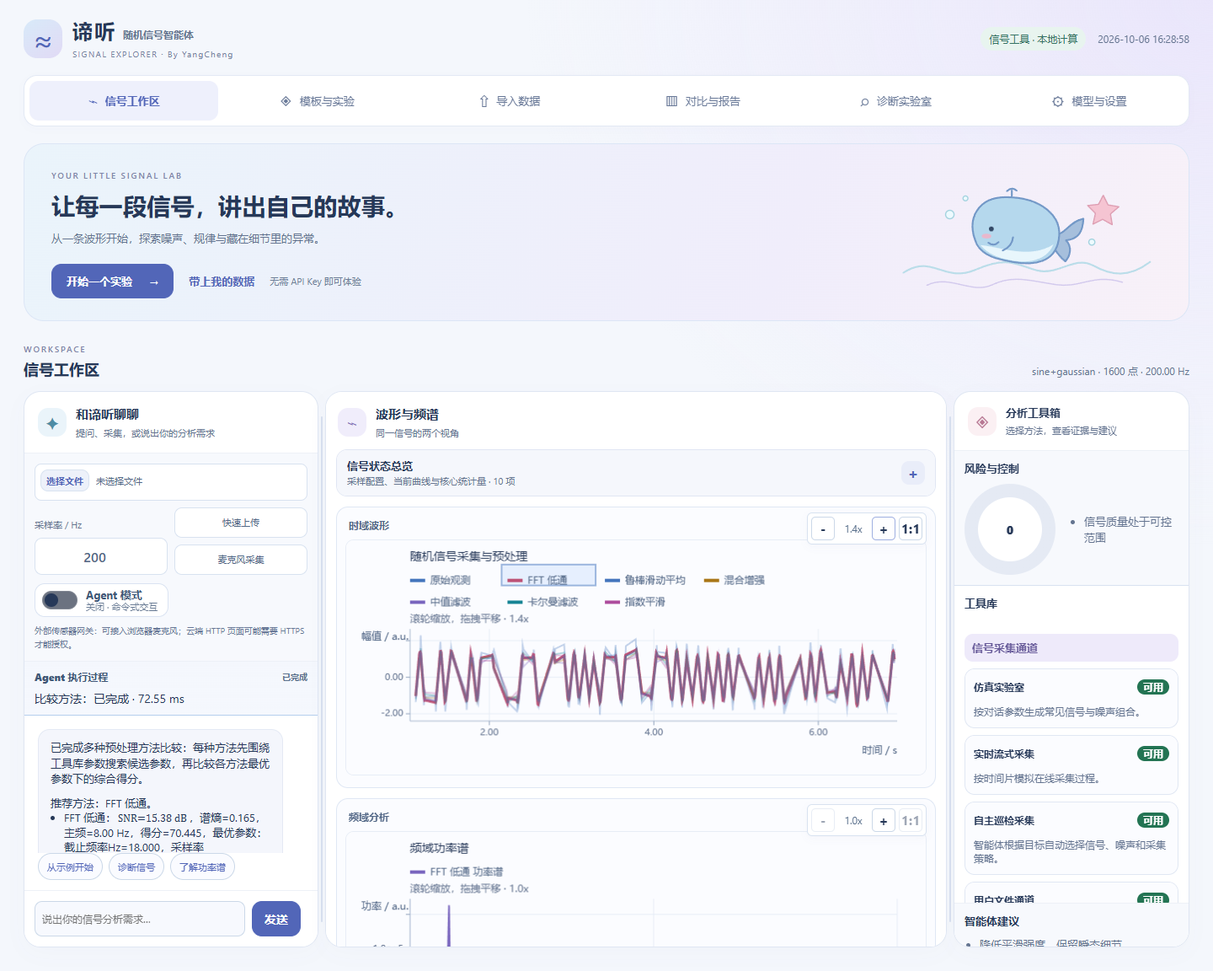
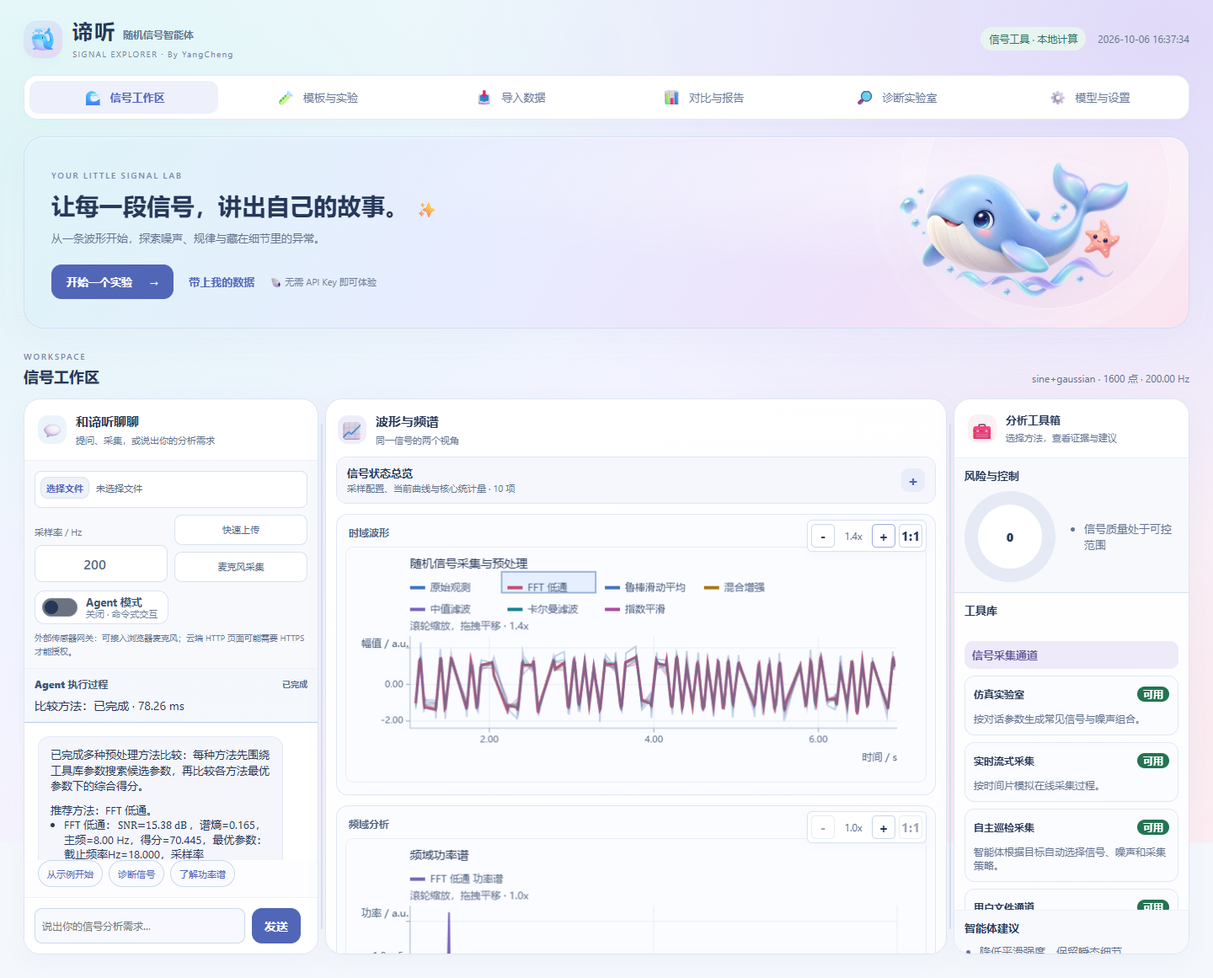
升级海洋视觉素材：AI立体鲸鱼、丰富渐变背景与装饰表情

diff --git a/工程文件/代码/web/ocean.css b/工程文件/代码/web/ocean.css
@@ -12,7 +12,15 @@
   --chart-surface: #fbfcff;
   --field-surface: #fff;
 }
-body { background: radial-gradient(ellipse at 100% 0, #eae6fb, transparent 40%), var(--bg); font-family: "Segoe UI", "Microsoft YaHei UI", sans-serif; font-size: 14px; }
+body {
+  background:
+    radial-gradient(ellipse at 2% 18%, #cdeff080, transparent 42%),
+    radial-gradient(ellipse at 96% 4%, #d9cff6b3, transparent 45%),
+    radial-gradient(ellipse at 90% 85%, #f6dce580, transparent 40%),
+    linear-gradient(155deg, #f0fbfc 0%, #f2f3ff 48%, #fff5f8 100%);
+  background-attachment: fixed;
+  font-family: "Segoe UI", "Microsoft YaHei UI", sans-serif; font-size: 14px;
+}
 [hidden] { display: none !important; }
 a { color: #5266b8; }
 button, a, summary, input, select { -webkit-tap-highlight-color: transparent; }
@@ -28,7 +36,7 @@ input, select { font: inherit; accent-color: #5266b8; }
 .skip-link:focus { top: 12px; }
 .app-header { max-width: 1680px; margin: auto; padding: 20px 28px 14px; min-height: 78px; background: none; color: var(--ink); overflow: visible; }
 .brand { display: flex; align-items: center; gap: 12px; text-decoration: none; color: var(--ink); }
-.brand-icon { display: grid; place-items: center; width: 46px; height: 46px; border-radius: 16px; background: linear-gradient(145deg, #d8eaf9, #e1daf5); color: #5266b8; font-size: 36px; line-height: 1; }
+.brand-icon { display: grid; place-items: center; width: 46px; height: 46px; border-radius: 16px; background: linear-gradient(145deg, #d5edf6, #e4d8f5); color: #5266b8; font-size: 27px; line-height: 1; box-shadow: inset 0 1px 0 #ffffffbf, 0 4px 12px #6876ad0a; }
 h1 { font-size: 24px; letter-spacing: 2px; text-shadow: none; }
 .title-suffix { color: var(--muted); font-size: 12px; text-shadow: none; letter-spacing: 0; }
 .sub { color: #73839e; font-size: 10px; letter-spacing: 1.3px; text-shadow: none; margin-top: 5px; }
@@ -38,23 +46,27 @@ h1 { font-size: 24px; letter-spacing: 2px; text-shadow: none; }
 .workflow-nav { position: sticky; top: 8px; z-index: 20; max-width: 1624px; margin: 4px auto 20px; padding: 6px; gap: 5px; border-radius: 16px; background: #fff; border: 1px solid #e3e9f4; box-shadow: 0 3px 12px #41578504; }
 .workflow-nav a { display: flex; align-items: center; justify-content: center; gap: 9px; border: 0; border-radius: 11px; color: #697998; padding: 11px 16px; flex: 1; font-size: 18px; white-space: nowrap; }
 .workflow-nav a span { font-size: 13px; color: inherit; }
+.workflow-nav .nav-emoji { font-size: 17px; flex: none; line-height: 1; }
 .workflow-nav a:hover { background: #f2f5fc; }
 .workflow-nav a[aria-current="page"] { background: #eef0fc; color: #5266b8; font-weight: 650; }
 [data-view] { max-width: 1680px; margin: auto; padding: 0 28px 28px; }
 .eyebrow { color: #7d87aa; font-size: 10px; font-weight: 600; letter-spacing: 1.8px; }
-.ocean-hero { position: relative; display: flex; justify-content: space-between; align-items: center; min-height: 170px; border: 1px solid #dce6f6; border-radius: 24px; padding: 26px 32px; background: linear-gradient(110deg, #eaf4fb, #f0edfb 65%, #f8f1f8); overflow: hidden; }
+.ocean-hero { position: relative; isolation: isolate; display: flex; justify-content: space-between; align-items: center; min-height: 210px; border: 1px solid #d3def3; border-radius: 24px; padding: 26px 32px; background: radial-gradient(ellipse at 80% 20%, #ffffff8c, transparent 45%), linear-gradient(115deg, #dff4f8 0%, #e7edff 38%, #eee2fa 72%, #fbe4ee 100%); box-shadow: inset 0 1px 0 #ffffffbf, 0 12px 35px #7885b00a; overflow: hidden; }
+.ocean-hero::before { content: ""; position: absolute; width: 290px; height: 290px; border: 1px solid #ffffff80; border-radius: 50%; right: 22px; top: -88px; z-index: -1; box-shadow: 0 0 0 30px #ffffff26, 0 0 0 65px #ffffff14; pointer-events: none; }
+.ocean-hero > div { position: relative; z-index: 1; }
+.hero-spark { display: inline-block; margin-left: 8px; font-size: .7em; vertical-align: middle; }
 .ocean-hero h2 { margin: 9px 0 10px; font-size: clamp(20px, 2vw, 28px); font-weight: 650; letter-spacing: .3px; }
 .ocean-hero p { color: var(--muted); margin: 0; font-size: 13px; line-height: 1.7; }
 .hero-actions { display: flex; align-items: center; gap: 18px; margin-top: 19px; font-size: 13px; }
 .hero-actions a { text-decoration: none; font-weight: 600; }
 .ocean-primary { display: inline-flex; gap: 20px; align-items: center; padding: 11px 17px; }
 .hero-note { font-size: 11px; color: #6c7d97; }
-.ocean-mascot { width: 300px; height: auto; margin: -5px 10px -10px 24px; flex-shrink: 0; }
+.ocean-mascot { width: 370px; height: 210px; object-fit: contain; margin: -18px -5px -18px 24px; flex-shrink: 0; filter: drop-shadow(0 12px 18px #7085bd12); }
 .workspace-caption { display: flex; justify-content: space-between; align-items: end; gap: 20px; margin: 22px 0 14px; }
 .workspace-caption h2 { font-size: 18px; margin: 4px 0 0; font-weight: 650; }
 #dataSummary { flex: 0 1 auto; color: var(--muted); font-size: 12px; padding-bottom: 2px; text-align: right; }
 main { --left-width: 350px; --right-width: 280px; max-width: none; margin: 0; padding: 0; background: none; height: max(660px, calc(100vh - 340px)); }
-.panel { background: #fff; border: 1px solid #dfe6f2; border-radius: 20px; box-shadow: 0 7px 25px #41578506; backdrop-filter: none; }
+.panel { background: linear-gradient(160deg, #fff, #fdfdff); border: 1px solid #dfe6f2; border-radius: 20px; box-shadow: 0 7px 25px #41578509; backdrop-filter: none; }
 .splitter::before { background: #d6deee; top: 30px; bottom: 30px; }
 .panel-heading { display: flex; align-items: center; gap: 11px; padding: 16px; flex-shrink: 0; }
 .panel-heading h2 { font-size: 15px; margin: 0; font-weight: 650; }
@@ -133,7 +145,7 @@ canvas { border-color: #e7edf6; border-radius: 10px; }
   main { grid-template-columns: minmax(280px, .8fr) minmax(0, 1.2fr); height: auto; gap: 16px; }
   .chat { height: 760px; min-height: 0; }.workspace { height: 760px; min-height: 0; }
   .side { grid-column: 1/-1; max-height: 620px; min-height: 0; }
-  .ocean-mascot { width: 230px; }
+  .ocean-mascot { width: 270px; height: 190px; margin-left: 12px; }
   .workflow-nav a { padding: 10px; flex: 1 0 auto; }
 }
 @media(max-width: 720px) {
@@ -143,9 +155,9 @@ canvas { border-color: #e7edf6; border-radius: 10px; }
   .workflow-nav { margin: 0 16px 16px; display: grid; grid-template-columns: repeat(3, minmax(0, 1fr)); gap: 3px; }
   .workflow-nav a { font-size: 16px; padding: 10px 3px; gap: 6px; }.workflow-nav a span { font-size: 11px; }
   [data-view] { padding: 0 16px 20px; }
-  .ocean-hero { padding: 22px; display: block; }.ocean-hero h2 { max-width: 250px; line-height: 1.5; font-size: 22px; }
-  .ocean-hero p { max-width: 240px; font-size: 12px; }
-  .ocean-mascot { position: absolute; width: 140px; right: -28px; top: 9px; opacity: .65; margin: 0; pointer-events: none; }
+  .ocean-hero { padding: 22px; display: flex; flex-direction: column; align-items: stretch; }.ocean-hero h2 { line-height: 1.5; font-size: 22px; }
+  .ocean-hero p { font-size: 12px; }
+  .ocean-mascot { position: static; width: min(260px, 100%); height: 150px; margin: 8px auto -12px; opacity: 1; pointer-events: none; }
   .ocean-hero > div { position: relative; z-index: 1; }
   .hero-actions { gap: 14px; flex-wrap: wrap; }.hero-note { flex-basis: 100%; }
   .workspace-caption { align-items: start; flex-direction: column; gap: 9px; margin: 20px 0 12px; }#dataSummary { text-align: left; }

diff --git a/工程文件/代码/web/chat.html b/工程文件/代码/web/chat.html
@@ -14,25 +14,25 @@
 <body>
   <a class="skip-link" href="#layoutRoot">跳到工作区</a>
   <header class="app-header">
-    <a class="brand" href="#layoutRoot" data-view-link="workspace"><span class="brand-icon" aria-hidden="true">≈</span><div><h1>谛听<span class="title-suffix">随机信号智能体</span></h1><div class="sub">SIGNAL EXPLORER · By YangCheng</div></div></a>
+    <a class="brand" href="#layoutRoot" data-view-link="workspace"><span class="brand-icon" aria-hidden="true">🐳</span><div><h1>谛听<span class="title-suffix">随机信号智能体</span></h1><div class="sub">SIGNAL EXPLORER · By YangCheng</div></div></a>
     <div class="header-meta"><span class="local-badge">信号工具 · 本地计算</span><div class="session" id="sessionLabel">时间初始化中</div></div>
   </header>
   <nav class="workflow-nav" aria-label="工作区导航">
-    <a href="#layoutRoot" data-view-link="workspace">⌁ <span>信号工作区</span></a>
-    <a href="#workbenchPanel" data-view-link="templates">◈ <span>模板与实验</span></a>
-    <a href="#dataPanel" data-view-link="data">⇧ <span>导入数据</span></a>
-    <a href="#comparisonPanel" data-view-link="comparison">▥ <span>对比与报告</span></a>
-    <a href="#diagnosticPanel" data-view-link="diagnostics">⌕ <span>诊断实验室</span></a>
-    <a href="#modelPanel" data-view-link="settings">⚙ <span>模型与设置</span></a>
+    <a href="#layoutRoot" data-view-link="workspace"><span class="nav-emoji" aria-hidden="true">🌊</span><span>信号工作区</span></a>
+    <a href="#workbenchPanel" data-view-link="templates"><span class="nav-emoji" aria-hidden="true">🧪</span><span>模板与实验</span></a>
+    <a href="#dataPanel" data-view-link="data"><span class="nav-emoji" aria-hidden="true">📥</span><span>导入数据</span></a>
+    <a href="#comparisonPanel" data-view-link="comparison"><span class="nav-emoji" aria-hidden="true">📊</span><span>对比与报告</span></a>
+    <a href="#diagnosticPanel" data-view-link="diagnostics"><span class="nav-emoji" aria-hidden="true">🔎</span><span>诊断实验室</span></a>
+    <a href="#modelPanel" data-view-link="settings"><span class="nav-emoji" aria-hidden="true">⚙</span><span>模型与设置</span></a>
   </nav>
 <section data-view="workspace" aria-label="信号工作区">
   <section class="ocean-hero" aria-label="开始探索信号">
-    <div><span class="eyebrow">YOUR LITTLE SIGNAL LAB</span><h2>让每一段信号，讲出自己的故事。</h2><p>从一条波形开始，探索噪声、规律与藏在细节里的异常。</p><div class="hero-actions"><a class="ocean-primary" href="#workbenchPanel" data-view-link="templates">开始一个实验 <span aria-hidden="true">→</span></a><a href="#dataPanel" data-view-link="data">带上我的数据</a><span class="hero-note">无需 API Key 即可体验</span></div></div>
-    <img src="ocean.svg" class="ocean-mascot" alt="" width="420" height="180">
+    <div><span class="eyebrow">YOUR LITTLE SIGNAL LAB</span><h2>让每一段信号，讲出自己的故事。<span class="hero-spark" aria-hidden="true">✨</span></h2><p>从一条波形开始，探索噪声、规律与藏在细节里的异常。</p><div class="hero-actions"><a class="ocean-primary" href="#workbenchPanel" data-view-link="templates">开始一个实验 <span aria-hidden="true">→</span></a><a href="#dataPanel" data-view-link="data">带上我的数据</a><span class="hero-note"><span aria-hidden="true">🐚</span> 无需 API Key 即可体验</span></div></div>
+    <img src="ocean-whale.webp" class="ocean-mascot" alt="" width="1536" height="1024" decoding="async">
   </section>
   <div class="workspace-caption"><div><span class="eyebrow">WORKSPACE</span><h2>信号工作区</h2></div><span id="dataSummary">还没有信号 · 试试模板或导入数据</span></div>
   <main id="layoutRoot">
-    <section class="panel chat"><div class="panel-heading"><span class="heading-icon" aria-hidden="true">✦</span><div><h2>和谛听聊聊</h2><p>提问、采集，或说出你的分析需求</p></div></div>
+    <section class="panel chat"><div class="panel-heading"><span class="heading-icon" aria-hidden="true">💬</span><div><h2>和谛听聊聊</h2><p>提问、采集，或说出你的分析需求</p></div></div>
       <div class="upload">
         <div class="upload-row">
           <input id="fileInput" type="file" accept=".csv,.txt" aria-label="快速上传信号文件">
@@ -68,7 +68,7 @@
 
     <div class="splitter" data-splitter="left" title="拖动调整左侧对话区宽度"></div>
 
-    <section class="panel workspace"><div class="panel-heading"><span class="heading-icon lilac" aria-hidden="true">⌁</span><div><h2>波形与频谱</h2><p>同一信号的两个视角</p></div></div>
+    <section class="panel workspace"><div class="panel-heading"><span class="heading-icon lilac" aria-hidden="true">📈</span><div><h2>波形与频谱</h2><p>同一信号的两个视角</p></div></div>
       <div class="metrics-module collapsed" id="metricsModule">
         <div class="metrics-summary-bar" id="metricsToggle" role="button" tabindex="0" aria-expanded="false">
           <div class="metrics-summary-title">
@@ -115,7 +115,7 @@
 
     <div class="splitter" data-splitter="right" title="拖动调整右侧分析区宽度"></div>
 
-    <aside class="panel side"><div class="panel-heading"><span class="heading-icon coral" aria-hidden="true">◈</span><div><h2>分析工具箱</h2><p>选择方法，查看证据与建议</p></div></div>
+    <aside class="panel side"><div class="panel-heading"><span class="heading-icon coral" aria-hidden="true">🧰</span><div><h2>分析工具箱</h2><p>选择方法，查看证据与建议</p></div></div>
       <div class="side-block">
         <h2>风险与控制</h2>
         <div class="risk">

diff --git a/docs/showcase.css b/docs/showcase.css
@@ -1,10 +1,11 @@
 /* Static result preview shares the application's ocean palette. */
 * { box-sizing: border-box; }
-body { color: #263858; background: radial-gradient(ellipse at 100% 0, #eae6fb, transparent 40%), #f4f7fc; font-family: "Segoe UI", "Microsoft YaHei UI", sans-serif; }
-header { display: flex; justify-content: space-between; align-items: center; gap: 20px; max-width: 1120px; margin: 24px auto 0; padding: 30px; background: linear-gradient(110deg, #eaf4fb, #f0edfb 65%, #f8f1f8); color: #263858; border: 1px solid #dce6f6; border-radius: 24px; }
+body { color: #263858; background: radial-gradient(ellipse at 2% 18%, #cdeff080, transparent 42%), radial-gradient(ellipse at 96% 4%, #d9cff6b3, transparent 45%), radial-gradient(ellipse at 90% 85%, #f6dce580, transparent 40%), linear-gradient(155deg, #f0fbfc 0%, #f2f3ff 48%, #fff5f8 100%); background-attachment: fixed; font-family: "Segoe UI", "Microsoft YaHei UI", sans-serif; }
+header { position: relative; isolation: isolate; overflow: hidden; display: flex; justify-content: space-between; align-items: center; gap: 20px; max-width: 1120px; margin: 24px auto 0; padding: 30px; background: radial-gradient(ellipse at 80% 20%, #ffffff8c, transparent 45%), linear-gradient(115deg, #dff4f8 0%, #e7edff 38%, #eee2fa 72%, #fbe4ee 100%); color: #263858; border: 1px solid #d3def3; border-radius: 24px; box-shadow: inset 0 1px 0 #ffffffbf; }
+header::before { content: ""; position: absolute; width: 290px; height: 290px; border: 1px solid #ffffff80; border-radius: 50%; right: 22px; top: -88px; z-index: -1; box-shadow: 0 0 0 30px #ffffff26, 0 0 0 65px #ffffff14; pointer-events: none; }
 header h1 { font-size: clamp(23px, 3vw, 30px); margin: 10px 0; }
 header p { color: #647490; font-size: 13px; }
-header img { width: 260px; height: auto; }
+header img { width: 330px; height: 200px; object-fit: contain; margin: -18px 0; flex-shrink: 0; filter: drop-shadow(0 12px 18px #7085bd12); }
 .eyebrow { color: #7d87aa; font-size: 11px; letter-spacing: 1.6px; }
 section { border: 1px solid #dfe6f2; border-radius: 20px; padding: 24px; box-shadow: 0 7px 25px #41578506; }
 h2 { color: #263858; font-size: 20px; }p, li { font-size: 14px; }
@@ -16,4 +17,5 @@ pre { background: #f4f6fc; color: #405777; border: 1px solid #dfe6f2; border-rad
 summary { cursor: pointer; color: #5266b8; }.table-scroll { overflow-x: auto; }
 :is(a, summary):focus-visible { outline: 3px solid #788add; outline-offset: 4px; }
 @media(max-width: 1150px) { header { margin: 16px 24px 0; } }
-@media(max-width: 600px) { header { margin: 12px; padding: 22px; }header img { width: 90px; }main { padding: 12px; }section { padding: 16px; } }
+@media(max-width: 800px) { header img { width: 220px; height: 160px; } }
+@media(max-width: 600px) { header { margin: 12px; padding: 22px; flex-direction: column; align-items: stretch; gap: 14px; }header img { width: min(260px, 100%); height: 150px; margin: 0 auto -12px; }main { padding: 12px; }section { padding: 16px; } }

diff --git a/docs/index.html b/docs/index.html
@@ -62,9 +62,9 @@ table {width:100%;border-collapse:collapse} th,td {padding:12px;text-align:left;
   <header><div><span class="eyebrow">YOUR LITTLE SIGNAL LAB</span>
       <h1>谛听 · 随机信号智能体</h1><p>从一条波形开始，探索噪声、规律与细节里的异常。</p>
       <p><a href="https://github.com/PatrickStar-cmd/random-signal-agent#readme">开始使用</a> · 固定实验结果预览</p></div>
-      <img src="images/ocean.svg" alt="" width="420" height="180"></header>
+      <img src="images/ocean-whale.webp" alt="" width="1536" height="1024" decoding="async"></header>
   <main><section id="ocean-preview"><h2>一个轻松探索信号的小实验室</h2>
-        <p>蓝紫色海洋主题、鲸鱼插画与六个功能分区：工作区、模板与实验、数据导入、对比与报告、诊断实验室、模型与设置。切换分区时保留当前输入。</p>
+        <p>海蓝与薰衣草紫渐变、AI 立体鲸鱼插画与六个功能分区：工作区、模板与实验、数据导入、对比与报告、诊断实验室、模型与设置。切换分区时保留当前输入。</p>
         <a href="images/ocean-ui.png"><img class="preview-image" src="images/ocean-ui.png" alt="可爱海洋工作区，包含对话、波形频谱和分析工具箱" loading="lazy"></a>
         <p>新界面已在主分支提供；交互实验需要启动 Python 服务。已发布的 v0.2.6 ZIP 保留该版本的原有界面。</p></section>
 <section><h2>v0.2.6 · 信号诊断实验室</h2><p>时频定位、六类故障盲测、证据与可验证处理。此页为静态预览；交互实验需启动 Python 服务。</p><p><a href="https://github.com/PatrickStar-cmd/random-signal-agent/releases/tag/v0.2.6">下载 v0.2.6</a> · <a href="diagnostics-v026.html">查看完整诊断报告示例</a></p><img src="images/diagnostics-v026.png" alt="v0.2.6 时频图与联动波形" style="max-width:100%;height:auto"></section><section>

diff --git a/工程文件/代码/scripts/build_showcase.py b/工程文件/代码/scripts/build_showcase.py
@@ -27,11 +27,11 @@ def decorate_preview(page):
     header = '''<header><div><span class="eyebrow">YOUR LITTLE SIGNAL LAB</span>
       <h1>谛听 · 随机信号智能体</h1><p>从一条波形开始，探索噪声、规律与细节里的异常。</p>
       <p><a href="https://github.com/PatrickStar-cmd/random-signal-agent#readme">开始使用</a> · 固定实验结果预览</p></div>
-      <img src="images/ocean.svg" alt="" width="420" height="180"></header>'''
+      <img src="images/ocean-whale.webp" alt="" width="1536" height="1024" decoding="async"></header>'''
     page = re.sub(r'<header>.*?</header>', lambda _: header, page, count=1, flags=re.S)
     if 'id="ocean-preview"' not in page:
         page = page.replace('<main>', '''<main><section id="ocean-preview"><h2>一个轻松探索信号的小实验室</h2>
-        <p>蓝紫色海洋主题、鲸鱼插画与六个功能分区：工作区、模板与实验、数据导入、对比与报告、诊断实验室、模型与设置。切换分区时保留当前输入。</p>
+        <p>海蓝与薰衣草紫渐变、AI 立体鲸鱼插画与六个功能分区：工作区、模板与实验、数据导入、对比与报告、诊断实验室、模型与设置。切换分区时保留当前输入。</p>
         <a href="images/ocean-ui.png"><img class="preview-image" src="images/ocean-ui.png" alt="可爱海洋工作区，包含对话、波形频谱和分析工具箱" loading="lazy"></a>
         <p>新界面已在主分支提供；交互实验需要启动 Python 服务。已发布的 v0.2.6 ZIP 保留该版本的原有界面。</p></section>''', 1)
     return page
@@ -92,7 +92,7 @@ def main():
     page = page.replace("<h2>结构化分析结果</h2>", "<details><summary>展开结构化分析结果</summary>")
     page = page.replace("</pre>\n    </section>", "</pre></details>\n    </section>")
     (pages / "images").mkdir(exist_ok=True)
-    shutil.copyfile(ROOT / "web/ocean.svg", pages / "images/ocean.svg")
+    shutil.copyfile(ROOT / "web/ocean-whale.webp", pages / "images/ocean-whale.webp")
     (pages / "index.html").write_text(decorate_preview(page), encoding="utf-8")
     (pages / ".nojekyll").touch()
     log = ROOT / "logs/showcase/latest.log"

diff --git a/工程文件/代码/docs/visual-assets.md b/工程文件/代码/docs/visual-assets.md
@@ -1,0 +1,27 @@
+# 海洋插画与背景
+
+欢迎区的鲸鱼与海星使用内置 `image_gen` 工具生成。网页版素材为 `web/ocean-whale.webp`，GitHub Pages 使用相同文件的副本 `docs/images/ocean-whale.webp`；两份内容一致。
+
+原始 PNG 为 1536 × 1024，RGBA、真正透明背景，大小 1,768,376 字节。网页使用保持原尺寸与透明通道的 WebP 编码（quality 90、alphaQuality 100），大小 146,298 字节，约 143 KiB；约比原图小 92%。没有裁剪、重绘或二次去背景。页面通过 object-fit: contain 展示完整插画，手机放在文字下方，避免覆盖标题和按钮。
+
+源 PNG 保留在本机 `outputs/artwork/ocean-whale-source.png`（Git 忽略的工作产物）；生成工具的原始文件仍保留。正常启动不需要生图服务、API Key、图像库或 Node。
+
+## 生成提示词
+
+模式：内置生图工具，新图生成；`transparent_background=true`，未使用 CLI 或参考图片。
+
+```text
+Use case: stylized-concept. Asset type: production hero mascot illustration for a cute ocean-themed scientific signal-analysis web application. Generate a NEW original illustration, no source image needs preserving. Subject: a charming baby whale, rounded powder-blue body, pearly ivory belly, glossy friendly dark eyes, subtle pink cheeks, gentle smile, expressive little fins and beautifully curved tail. A tiny coral-pink starfish companion floats beside its tail; a few translucent aqua bubbles and two delicate flowing lilac/aqua signal-wave ribbons underneath. Style: high-quality soft 3D clay illustration, collectible designer toy proportions, fine matte ceramic/velvety texture, subtle iridescent highlights, rich dimensional shading and smooth curves, adorable but refined rather than flat simplistic clip-art. Lighting: diffused studio light from upper left, soft blue/lilac reflections. Palette: powder blue, periwinkle, pale mint, lavender, pearl white and restrained coral pink. Composition: landscape 3:2, centered compact group, full whale body and tail visible, head looking toward left (page text lives to its left), generous transparent margins, composition clearly recognizable when displayed at 350px wide. Genuine transparent alpha background, no white rectangle, no checkerboard baked into pixels, no ocean scenery or pedestal. No text, logos, watermark, human characters, extra whales, hard outlines or distracting tiny detail. Intended for a pale cyan-to-lavender-to-pink gradient banner; shadows should belong to the objects, no large dark ground shadow.
+```
+
+## 配色与使用
+
+页面底色由海蓝、薄荷色、薰衣草紫和淡粉色组成多层径向与线性渐变。欢迎区更明亮，带浅色圆环；图表及正文卡片保留清晰的近白色表面。装饰背景不参与任何科学数据绘制。
+
+导航和分区标题使用少量海洋、实验与分析表情，作为 `aria-hidden` 装饰；入口文字与操作名称保持明确。渐变静止，没有新增循环动画或远程素材请求。
+
+## 验证
+
+浏览器检查素材自然宽度为 1536，透明 Alpha 最小值为 0，边角为透明；确认没有白色矩形背景。11 组现有界面流程及 7 种宽度（320–1920 px）的六个分区通过，未出现页面横向溢出或 JavaScript 异常。静态预览同步检查图像加载、尺寸和窄屏布局。
+
+临时脚本、独立服务数据及截图位于 `debug/ocean-artwork/`，说明见 `note.md`；日志覆盖写入 `logs/ocean-artwork/browser.log` 与 `server.log`。此更新在主分支，未修改已发布的 v0.2.6 ZIP。

diff --git a/工程文件/代码/docs/ui-design.md b/工程文件/代码/docs/ui-design.md
@@ -1,6 +1,6 @@
 # 可爱海洋界面（主分支新增）
 
-蓝紫色背景搭配白色圆角卡片，鲸鱼、海星与波纹为项目原创 SVG。图表采用浅色底、深色文字和可区分的曲线颜色；装饰只出现在欢迎区。
+海蓝、薄荷、薰衣草紫与淡粉色多层渐变搭配近白色圆角卡片。欢迎区使用 AI 生成的立体鲸鱼、海星与波纹，1536 × 1024 的透明 WebP 约 143 KiB；导航与分区标题适量添加装饰表情。图表采用浅色底、深色文字和可区分的曲线颜色。素材、完整生图提示词与交付编码说明见 [visual-assets.md](visual-assets.md)。
 
 ## 操作入口
 
@@ -27,7 +27,7 @@
 
 ## 参考与验证
 
-参考 [LobeHub 设计系统](https://github.com/lobehub/lobehub/blob/canary/DESIGN.md) 的语义颜色、字体层级、统一间距与渐进展示，以及 [shadcn/ui 仪表盘](https://ui.shadcn.com/examples/dashboard) 的功能分区和卡片组织。海洋配色与插画独立设计，未复制它们的代码或品牌素材。
+参考 [LobeHub 设计系统](https://github.com/lobehub/lobehub/blob/canary/DESIGN.md) 的语义颜色、字体层级、统一间距与渐进展示，以及 [shadcn/ui 仪表盘](https://ui.shadcn.com/examples/dashboard) 的功能分区和卡片组织。海洋配色按本项目调整，立体插画由内置生图工具生成，未复制参考项目的代码或品牌素材。
 
 浏览器验收覆盖生成/保存/复制、跨快照对比、图表缩放、统计展开与窄屏多曲线图例留白、诊断与验证曲线在分区切换后保留、模拟模型测试及对话、导入后的分区跳转、示例不自动发送、输入保留、锚点与键盘导航。320、390、720、768、1024、1280、1920 像素宽度的六个分区均无页面横向溢出，未发现 JavaScript 异常。诊断回归 16 项通过；静态预览 320、390、1440 像素宽度均无横向溢出。修正了任务结束仍显示“执行中”的提示。
 

diff --git a/README.md b/README.md
@@ -38,7 +38,7 @@
 
 | 功能 | 可以完成的实验 |
 | --- | --- |
-| 🐳 可爱海洋界面（主分支新增） | 蓝紫配色、鲸鱼插画与六个功能分区，桌面/平板/手机自适应；尚未包含在 v0.2.6 部署包。 |
+| 🐳 可爱海洋界面（主分支新增） | 海蓝/薰衣草紫渐变、AI 立体鲸鱼插画与六个功能分区，桌面/平板/手机自适应；尚未包含在 v0.2.6 部署包。 |
 | 🔑 模型 API 配置（主分支新增） | 在页面选择服务与模型、填写 Key、测试并应用；可按会话记住配置。尚未包含在 v0.2.6 部署包中。 |
 | 🩺 信号诊断实验室 | STFT 时频图联动异常区间，六类可复现故障注入、盲测揭晓评分，以及保留原始观测的验证实验。 |
 | 💾 实验工作台 | 用模板创建实验，保存、恢复、复制、搜索、重命名或删除快照；服务重启后继续工作。 |
@@ -311,7 +311,7 @@ Built for the Random Signals course at **UESTC**. The local toolchain works with
 
 | Capability | What you can do |
 | --- | --- |
-| 🐳 Ocean UI (new on main) | Soft blue/lilac surfaces, original whale art and six persistent views for desktop, tablet and mobile. Not in the v0.2.6 ZIP yet. |
+| 🐳 Ocean UI (new on main) | Layered ocean/lilac gradients, AI-generated 3D whale art and six persistent views for desktop, tablet and mobile. Not in the v0.2.6 ZIP yet. |
 | 🔑 Model API setup (new on main) | Choose a provider/model, enter a key and test/apply in the UI; optional per-session persistence. Not included in the v0.2.6 deployment ZIP yet. |
 | 🩺 Diagnostic laboratory | Linked STFT and event timeline, six seeded fault types, blind challenge evaluation, and reversible evidence-based processing trials. |
 | 💾 Experiment workbench | Create from templates, save, reopen, duplicate, search, rename or delete snapshots, and resume after a restart. |

diff --git a/工程文件/代码/docs/exec.md b/工程文件/代码/docs/exec.md
@@ -163,3 +163,7 @@ API：`POST /api/diagnostics/{analyze,inject,demo,reveal,verify,adopt}`，共同
 ## 可爱海洋界面（待发布）
 
 启动命令不变。默认进入“信号工作区”，其余操作位于六个顶栏入口；模型配置、任务队列与清理位于“模型与设置”。示例按钮只填写指令。界面说明与验证日志位置见 [ui-design.md](ui-design.md)。
+
+## 海洋插画与背景增强（待发布）
+
+启动方式不变，素材随 web/ 本地静态资源提供，不需要生图服务或新运行依赖。替换素材文件为 web/ocean-whale.webp；静态预览的相同副本由 scripts/build_showcase.py 维护。生成提示词、编码参数和 logs/ocean-artwork/ 日志见 [visual-assets.md](visual-assets.md)。

diff --git a/CHANGELOG.md b/CHANGELOG.md
@@ -2,6 +2,8 @@
 
 ## Unreleased
 
+- AI-generated dimensional whale/starfish artwork, transparent WebP delivery (~143 KiB), richer ocean/lilac/pink gradients and restrained decorative emoji. Mobile artwork sits below the copy; preview and README screenshots stay in sync.
+
 - Cute ocean UI: blue/lilac surfaces, original whale illustration, six persistent workspace views, responsive layout and accessible navigation.
 - Chart colors match the light theme, wrapped legends reserve space, diagnostic trial plots survive view changes, and completed tasks correctly show completion. Updated preview and bilingual README screenshots.
 
